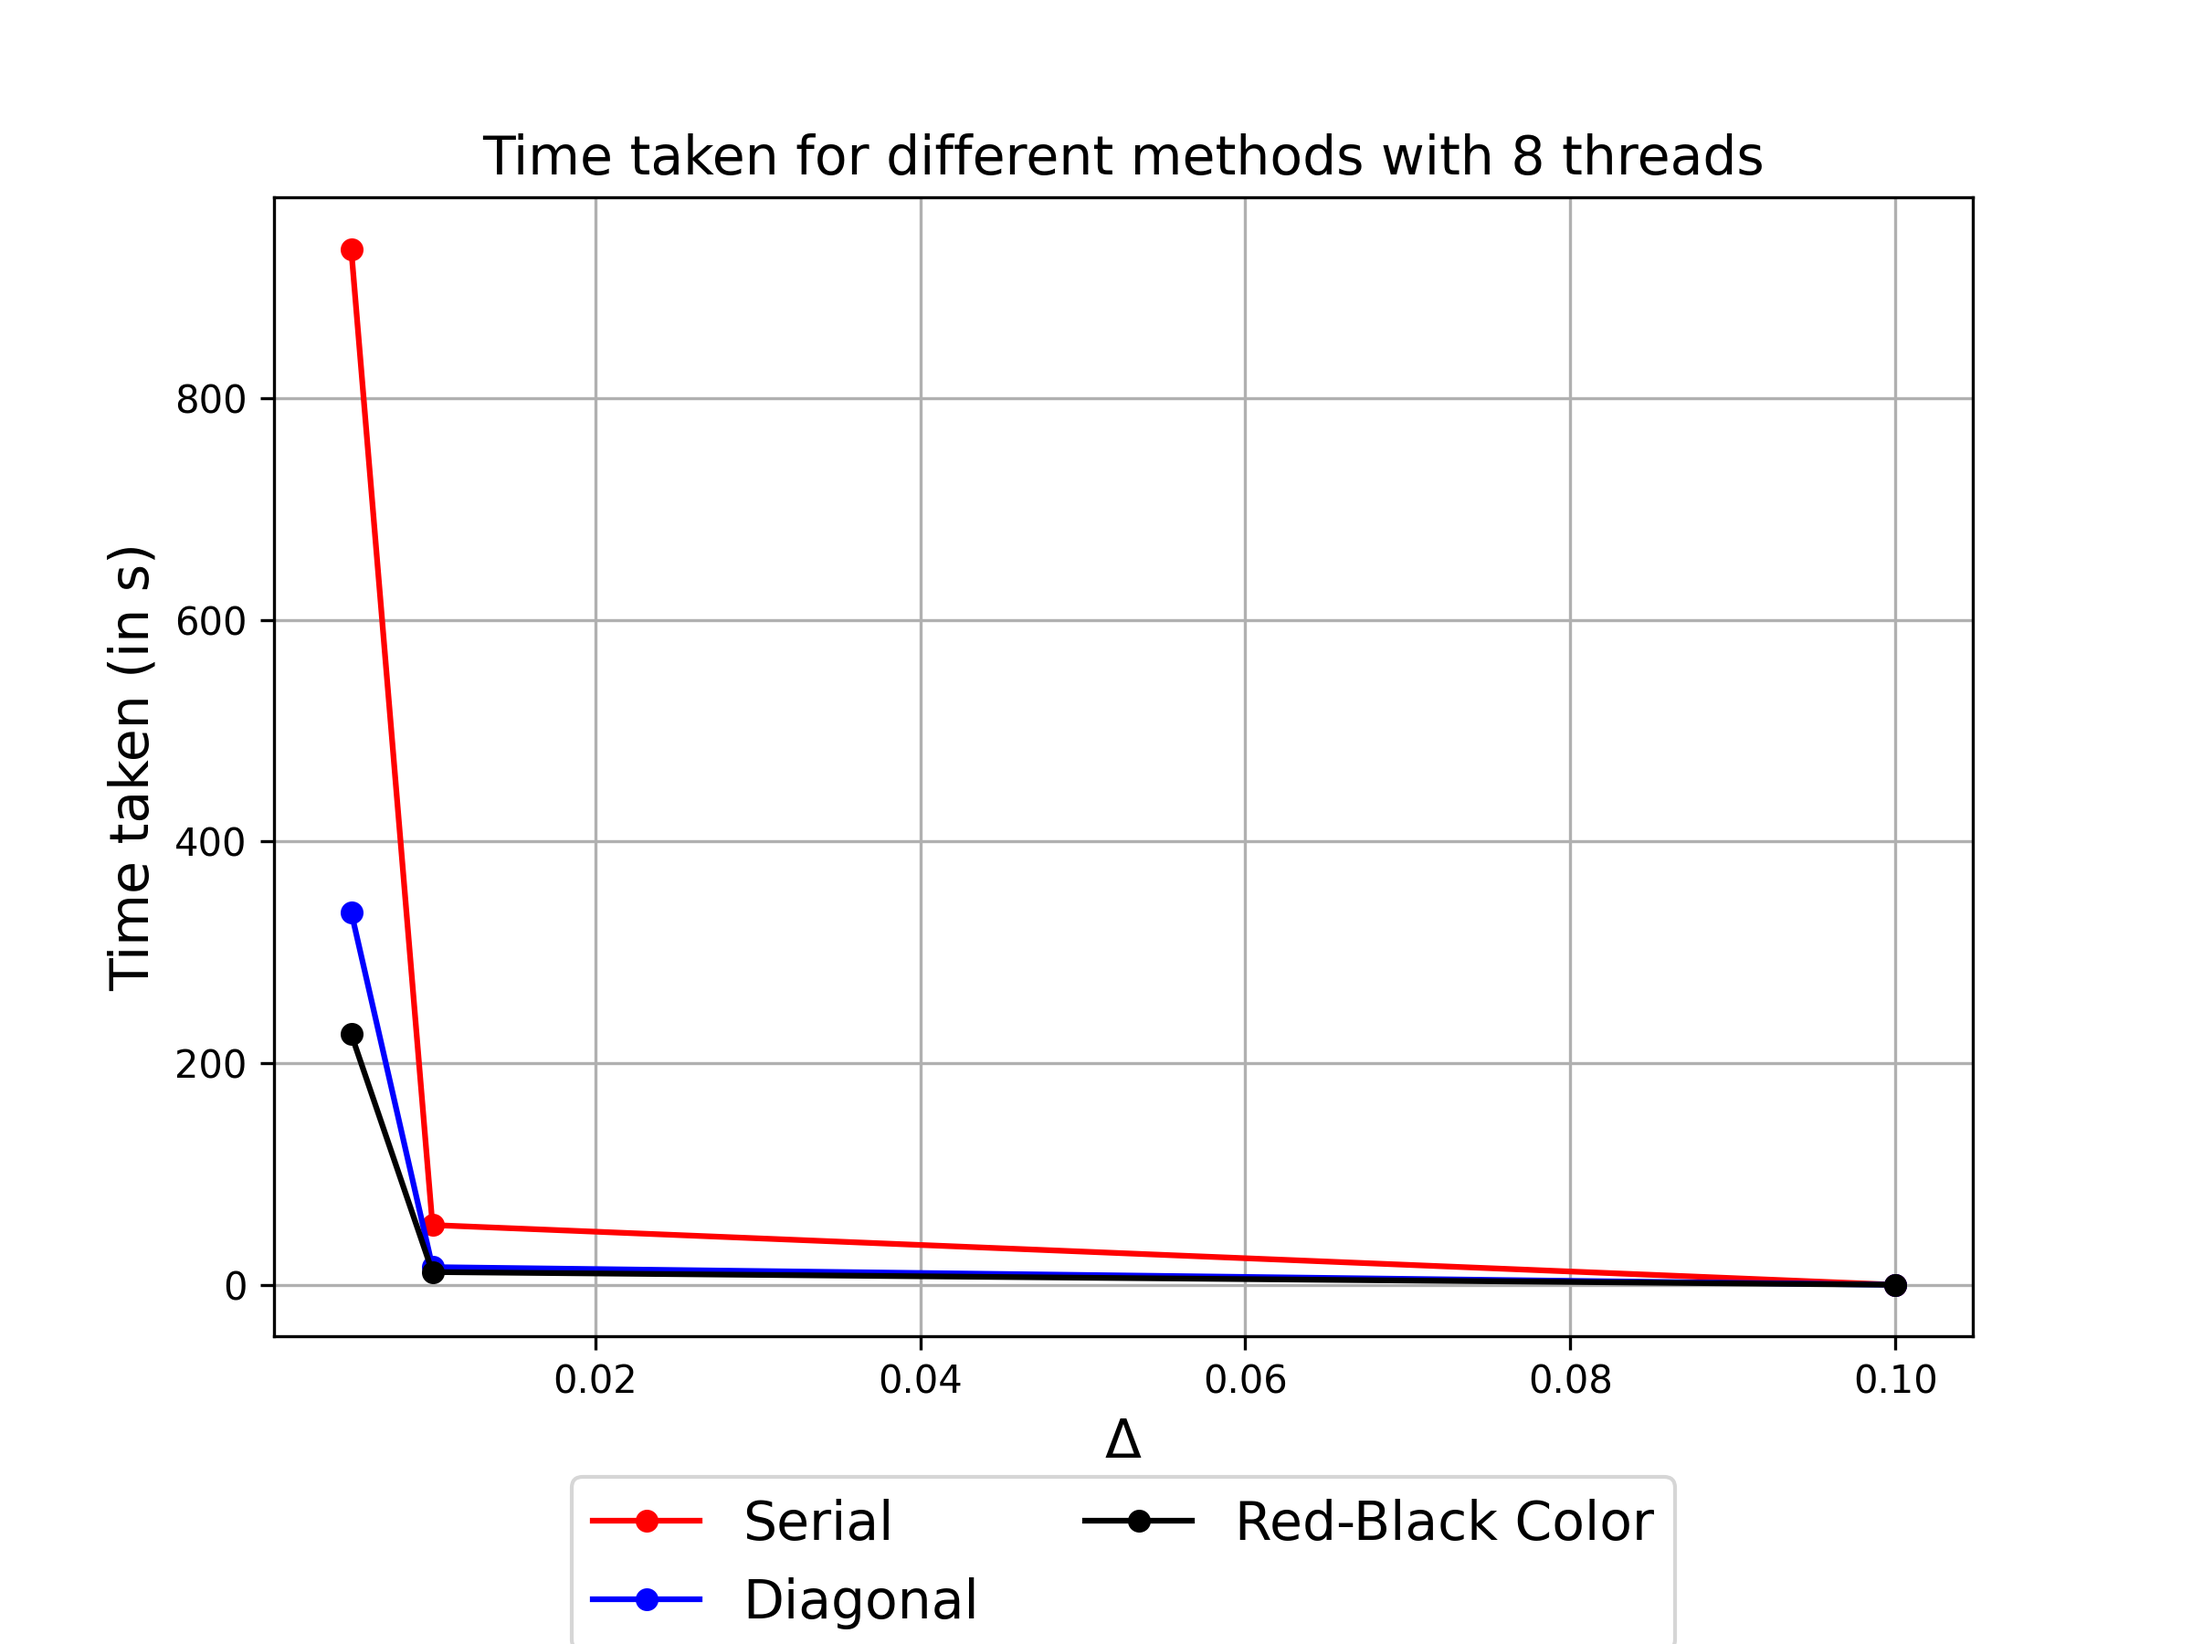
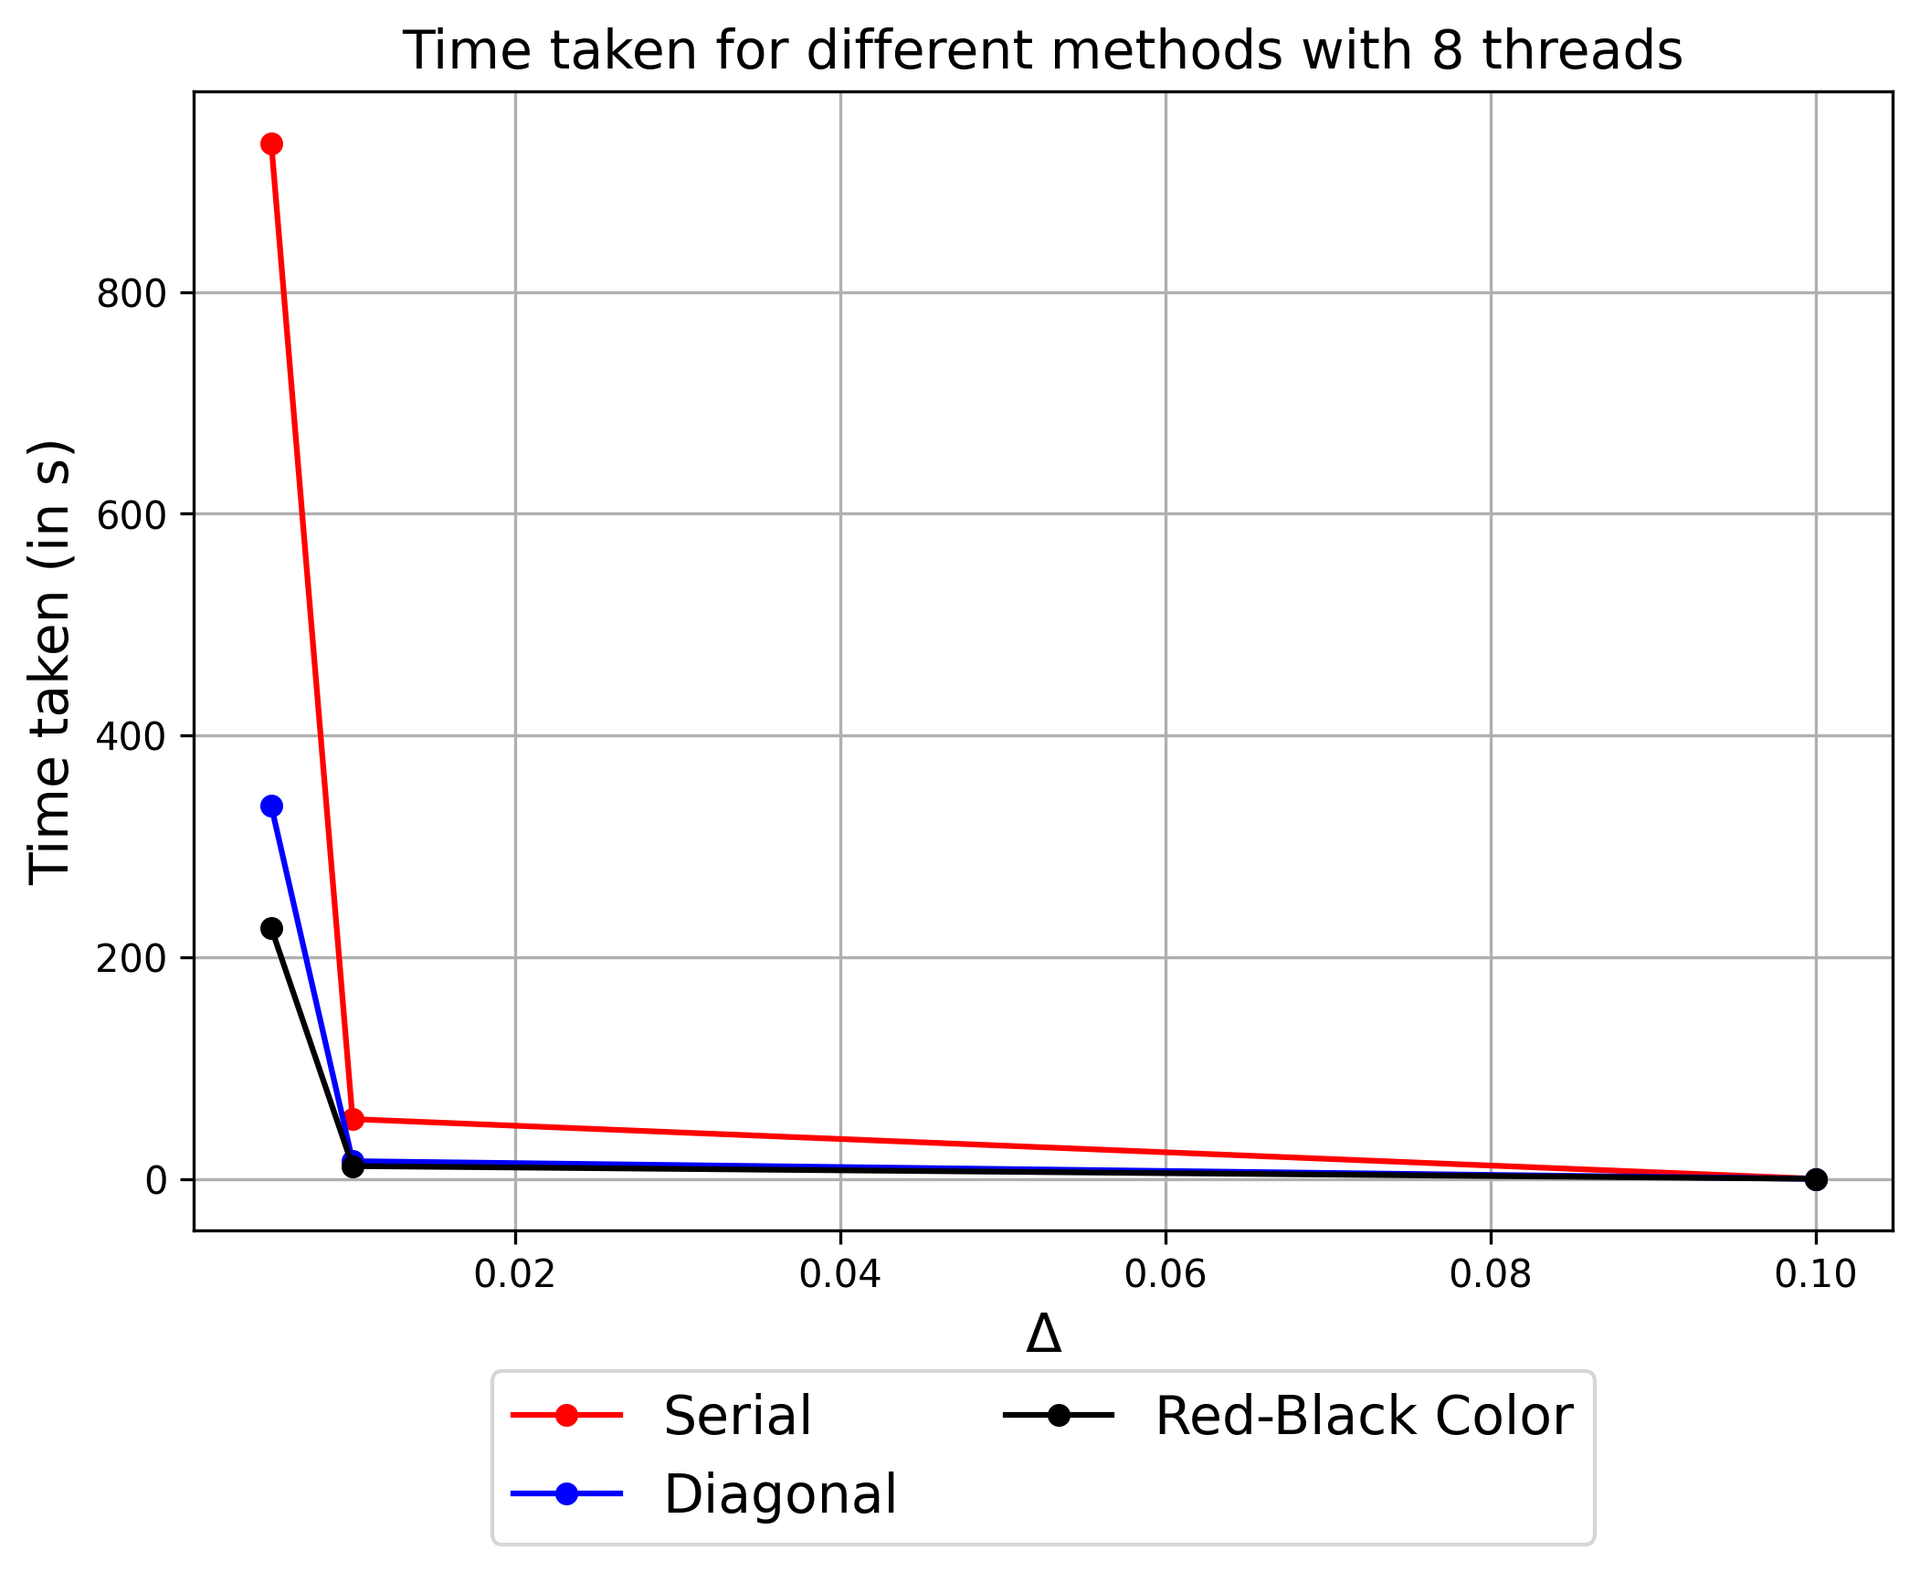
Some changes in plots

diff --git a/Assignments/1/plotRes.py b/Assignments/1/plotRes.py
@@ -7,6 +7,8 @@ import matplotlib.pyplot as plt
 # num = np.loadtxt(file1, delimiter=",", usecols=0)
 # act = np.loadtxt(file1, delimiter=",", usecols=1)
 
+# print(np.linalg.norm(num - act))
+
 # x = np.linspace(0, 3, num=num.size)
 
 # plt.figure(figsize=(8,6))
@@ -23,7 +25,7 @@ import matplotlib.pyplot as plt
 # plt.legend(fontsize=14, loc="upper center", ncol=2, bbox_to_anchor=(0.5,-0.1))
 # fig1 = plt.gcf()
 # plt.show()
-# fig1.savefig("./Res/LU.png", dpi=300)
+# fig1.savefig("./Res/LU.png", dpi=300, bbox_inches='tight')
 
 
 
@@ -31,6 +33,8 @@ import matplotlib.pyplot as plt
 # file2 = "./Res/RDA.txt"
 # num = np.loadtxt(file2, delimiter=",", usecols=0)
 # act = np.loadtxt(file2, delimiter=",", usecols=1)
+
+# print(np.linalg.norm(num - act))
 
 # x = np.linspace(0, 3, num=num.size)
 
@@ -48,7 +52,7 @@ import matplotlib.pyplot as plt
 # plt.legend(fontsize=14, loc="upper center", ncol=2, bbox_to_anchor=(0.5,-0.1))
 # fig2 = plt.gcf()
 # plt.show()
-# fig2.savefig("./Res/RDA.png", dpi=300)
+# # fig2.savefig("./Res/RDA.png", dpi=300, bbox_inches='tight')
 
 
 # # Q2 b) RDA Time 
@@ -63,7 +67,7 @@ import matplotlib.pyplot as plt
 # plt.grid()
 # fig3 = plt.gcf()
 # plt.show()
-# # fig3.savefig("./Res/RDA_Time.png", dpi=300)
+# # fig3.savefig("./Res/RDA_Time.png", dpi=300, bbox_inches='tight')
 
 
 # # Q3 a) GS Serial
@@ -88,7 +92,7 @@ import matplotlib.pyplot as plt
 # plt.legend(fontsize=14, loc="upper center", ncol=2, bbox_to_anchor=(0.5,-0.1))
 # fig3 = plt.gcf()
 # plt.show()
-# fig3.savefig("./Res/GS_Ser.png", dpi=300)
+# fig3.savefig("./Res/GS_Ser.png", dpi=300, bbox_inches='tight')
 
 
 # # Q3 c) GS Serial, Diagonal, Red-Black
@@ -118,7 +122,7 @@ import matplotlib.pyplot as plt
 # plt.legend(fontsize=14, loc="upper center", ncol=2, bbox_to_anchor=(0.5,-0.1))
 # fig4 = plt.gcf()
 # plt.show()
-# fig4.savefig("./Res/GS_Dia.png", dpi=300)
+# fig4.savefig("./Res/GS_Dia.png", dpi=300, bbox_inches='tight')
 
 # plt.figure(figsize=(8,6))
 # ax = plt.subplot(111)
@@ -134,7 +138,7 @@ import matplotlib.pyplot as plt
 # plt.legend(fontsize=14, loc="upper center", ncol=2, bbox_to_anchor=(0.5,-0.1))
 # fig5 = plt.gcf()
 # plt.show()
-# fig5.savefig("./Res/GS_RBC.png", dpi=300)
+# fig5.savefig("./Res/GS_RBC.png", dpi=300, bbox_inches='tight')
 
 # # Q3 c) Time comparison
 # delta = np.array([0.1, 0.01, 0.005])
@@ -169,7 +173,7 @@ import matplotlib.pyplot as plt
 # plt.legend(fontsize=14, loc="upper center", ncol=2, bbox_to_anchor=(0.5,-0.1))
 # fig6 = plt.gcf()
 # plt.show()
-# # fig6.savefig("./Res/Q3_c_Time_log.png", dpi=300)
+# fig6.savefig("./Res/Q3_c_Time_log.png", dpi=300, bbox_inches='tight')
 
 # plt.figure(figsize=(8,6))
 # ax = plt.subplot(111)
@@ -186,7 +190,7 @@ import matplotlib.pyplot as plt
 # plt.legend(fontsize=14, loc="upper center", ncol=2, bbox_to_anchor=(0.5,-0.1))
 # fig7 = plt.gcf()
 # plt.show()
-# # fig7.savefig("./Res/Q3_c_Time_plot.png", dpi=300)
+# fig7.savefig("./Res/Q3_c_Time_plot.png", dpi=300, bbox_inches='tight')
 
 # plt.figure(figsize=(8,6))
 # ax = plt.subplot(111)
@@ -202,4 +206,4 @@ import matplotlib.pyplot as plt
 # plt.legend(fontsize=14, loc="upper center", ncol=2, bbox_to_anchor=(0.5,-0.1))
 # fig8 = plt.gcf()
 # plt.show()
-# # fig8.savefig("./Res/Q3_d_Time.png", dpi=300)
+# fig8.savefig("./Res/Q3_d_Time.png", dpi=300, bbox_inches='tight')
